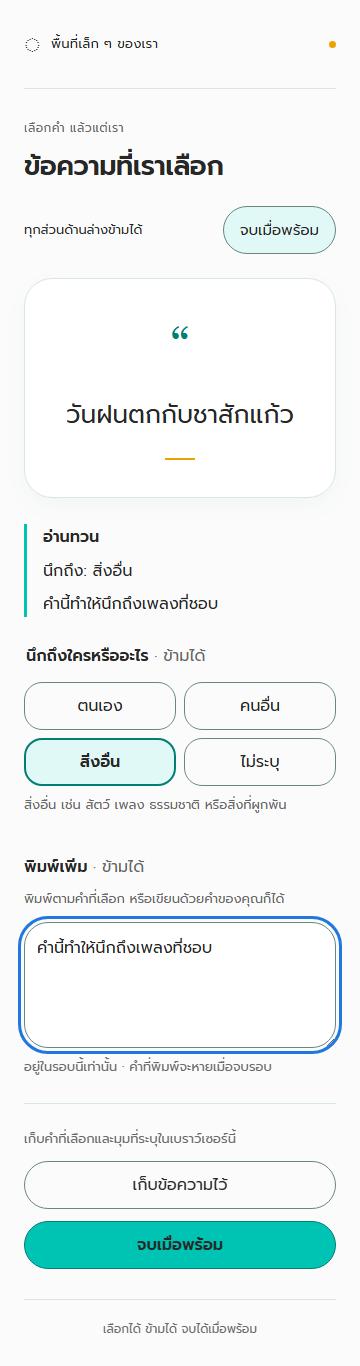
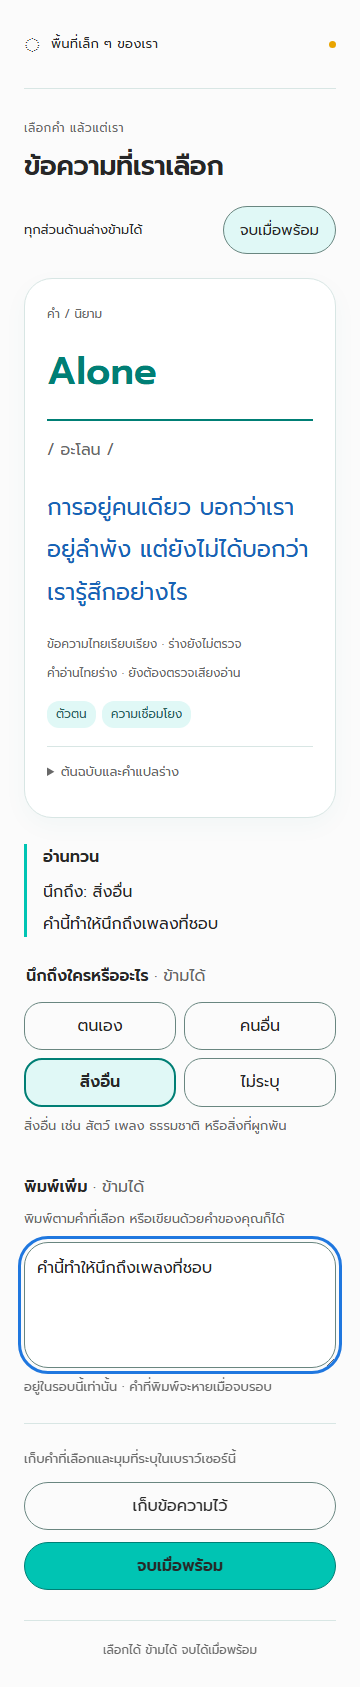
Isolate native details from swipe surface and document touch limits

Changed region(s): [[0.0306, 0.0, 0.9472, 0.9839], [0.6722, 0.4919, 0.7639, 0.5227], [0.3972, 0.0, 0.4278, 0.0307]]

diff --git a/src/App.tsx b/src/App.tsx
@@ -5,7 +5,6 @@ import {saveQuote} from './storage';
 import type {SavedQuote} from './storage';
 import QuoteCard from './QuoteCard';
 import HistoryView from './HistoryView';
-import SwipeCard from './SwipeCard';
 type Screen='welcome'|'discover'|'reflect'|'noSelection'|'done'|'history';
 type Round={id:string;deck:string[];visited:string[];cursor:number;currentQuoteId:string;selectedQuoteId:string|null;focus:Focus;draft:string;hugShown:boolean};
 const titles:Record<Screen,string>={welcome:'เลือกคำ แล้วแต่เรา',discover:'พบข้อความ',reflect:'ข้อความที่เราเลือก',noSelection:'วันนี้ยังไม่เลือก',done:'จบรอบนี้แล้ว',history:'ข้อความที่เก็บไว้'};
@@ -16,13 +15,13 @@ export default function App(){
  function end(){setDoneSaved(!!saved);setRound(null);setSaved(null);setMessage('');setScreen('done');}
  function patch(changes:Partial<Round>){setRound(r=>r?{...r,...changes}:r);}
  function next(){setRound(r=>{if(!r)return r;if(r.cursor<r.visited.length-1){const cursor=r.cursor+1;return {...r,cursor,currentQuoteId:r.visited[cursor]};}const [first,...deck]=r.deck.length?r.deck:shuffled(r.currentQuoteId);return {...r,deck,visited:[...r.visited,first],cursor:r.cursor+1,currentQuoteId:first};});}
- function previous(){setRound(r=>r&&r.cursor>0?{...r,cursor:r.cursor-1,currentQuoteId:r.visited[r.cursor-1]}:r);} 
+ function previous(){setRound(r=>r&&r.cursor>0?{...r,cursor:r.cursor-1,currentQuoteId:r.visited[r.cursor-1]}:r);}
  function save(){if(!round)return;const quote=quotes.find(q=>q.id===round.selectedQuoteId)!;try{const entry=saveQuote({id:round.id,quoteId:quote.id,quoteText:snapshotText(quote),focus:round.focus});setSaved(entry);setMessage('เก็บข้อความไว้แล้ว');}catch(e){setMessage((e as Error).message);}}
  function history(){setOrigin(screen==='done'?'done':'welcome');setScreen('history');}
  const quote=round?quotes.find(q=>q.id===(round.selectedQuoteId??round.currentQuoteId)):null;
  return <main><header className="brand"><span className="brand-symbol" aria-hidden="true">◌</span><span>พื้นที่เล็ก ๆ ของเรา</span><span className="brand-dot" aria-hidden="true"/></header><div className="page"><p className="eyebrow">{screen==='welcome'?'ค่อย ๆ อยู่กับคำหนึ่งคำ':screen==='done'?'พักตรงนี้ได้':'เลือกคำ แล้วแต่เรา'}</p><h1 ref={heading} tabIndex={-1}>{titles[screen]}</h1>
  {screen==='welcome'&&<><div className="welcome-art" aria-hidden="true"><span>คำ</span></div><p className="intro">อ่านข้อความสั้น ๆ แล้วเลือกได้ว่าจะทำอะไรต่อ</p><div className="actions"><button className="primary" onClick={start}>เริ่ม</button><button onClick={history}>ดูข้อความที่เก็บไว้</button></div></>}
- {screen==='discover'&&quote&&<><p className="subtle">อ่านข้อความนี้ แล้วเลือกทางของคุณ</p><p className="hint" id="swipe-help">ปัดซ้ายดูคำถัดไป · ปัดขวาดูคำก่อนหน้า<br/>การปัดเป็นการเลื่อนดู ยังไม่เลือกหรือเก็บ</p><SwipeCard onNext={next} onPrevious={previous}><div aria-live="polite" aria-atomic="true"><QuoteCard key={quote.id} quote={quote}/></div></SwipeCard><div className="actions"><button className="primary" onClick={()=>{patch({selectedQuoteId:quote.id});setScreen('reflect');}}>เลือกข้อความนี้</button><button onClick={next}>เปลี่ยนข้อความ</button><button onClick={previous} disabled={!round||round.cursor===0}>ข้อความก่อนหน้า</button><button className="text-button" onClick={()=>setScreen('noSelection')}>วันนี้ยังไม่เลือก</button><button className="finish" onClick={end}>จบได้เลย</button></div></>}
+ {screen==='discover'&&quote&&<><p className="subtle">อ่านข้อความนี้ แล้วเลือกทางของคุณ</p><p className="hint" id="swipe-help">ปัดซ้ายดูคำถัดไป · ปัดขวาดูคำก่อนหน้า<br/>การปัดเป็นการเลื่อนดู ยังไม่เลือกหรือเก็บ</p><div aria-live="polite" aria-atomic="true"><QuoteCard key={quote.id} quote={quote} browse={{onNext:next,onPrevious:previous}}/></div><div className="actions"><button className="primary" onClick={()=>{patch({selectedQuoteId:quote.id});setScreen('reflect');}}>เลือกข้อความนี้</button><button onClick={next}>เปลี่ยนข้อความ</button><button onClick={previous} disabled={!round||round.cursor===0}>ข้อความก่อนหน้า</button><button className="text-button" onClick={()=>setScreen('noSelection')}>วันนี้ยังไม่เลือก</button><button className="finish" onClick={end}>จบได้เลย</button></div></>}
  {screen==='reflect'&&round&&quote&&<><div className="finish-top"><span>ทุกส่วนด้านล่างข้ามได้</span><button className="finish" onClick={end}>จบเมื่อพร้อม</button></div><QuoteCard quote={quote}/><section className="review" aria-label="อ่านทวน"><h2>อ่านทวน</h2>{round.focus&&<p>นึกถึง: {focusLabel(round.focus)}</p>}{round.draft.trim()&&<p className="draft-preview">{round.draft}</p>}{!round.focus&&!round.draft.trim()&&<p className="subtle">มีเพียงคำที่คุณเลือก</p>}</section><fieldset><legend>นึกถึงใครหรืออะไร <span>· ข้ามได้</span></legend><div className="choices">{([['self','ตนเอง'],['other','คนอื่น'],['things','สิ่งอื่น'],[null,'ไม่ระบุ']] as [Focus,string][]).map(([value,label])=><label key={label}><input type="radio" name="focus" value={value??''} checked={round.focus===value} onChange={()=>patch({focus:value})}/><span>{label}</span></label>)}</div><p className="hint">สิ่งอื่น เช่น สัตว์ เพลง ธรรมชาติ หรือสิ่งที่ผูกพัน</p></fieldset><section className="writing"><label htmlFor="draft">พิมพ์เพิ่ม <span>· ข้ามได้</span></label><p className="hint" id="draft-prompt">พิมพ์ตามคำที่เลือก หรือเขียนด้วยคำของคุณก็ได้</p><textarea id="draft" maxLength={500} value={round.draft} onChange={e=>patch({draft:e.target.value})} aria-describedby="draft-prompt draft-help"/><p className="hint" id="draft-help">อยู่ในรอบนี้เท่านั้น · คำที่พิมพ์จะหายเมื่อจบรอบ</p></section><section className="save-section"><p className="hint">เก็บคำที่เลือกและมุมที่ระบุในเบราว์เซอร์นี้</p><button onClick={save}>{saved&&saved.focus!==round.focus?'อัปเดตบันทึก':'เก็บข้อความไว้'}</button><p role="status">{message}</p></section><button className="primary full" onClick={end}>จบเมื่อพร้อม</button></>}
  {screen==='noSelection'&&round&&<><p className="intro">วันนี้จบตรงนี้ได้เลย</p><button className="primary full" onClick={end}>จบได้เลย</button><div className="hug-area">{round.hugShown?<div role="status"><svg aria-hidden="true" viewBox="0 0 180 150" width="150" height="125"><path d="M35 108Q0 64 42 69Q37 13 66 27Q92 6 119 29Q150 19 143 68Q184 62 150 111Q92 154 35 108" fill="#E0F8F6" stroke="#007F75" strokeWidth="2"/><circle cx="72" cy="65" r="3" fill="#272727"/><circle cx="106" cy="65" r="3" fill="#272727"/><path d="M80 80Q89 88 98 80" fill="none" stroke="#272727" strokeWidth="2"/></svg><p>ไว้ค่อยกลับมาเมื่อพร้อม</p></div>:<button onClick={()=>patch({hugShown:true})}>รับกอด</button>}</div></>}
  {screen==='done'&&<><div className="done-art" aria-hidden="true">✓</div>{doneSaved&&<p className="saved-note">เก็บข้อความไว้แล้ว</p>}<div className="actions"><button className="primary" onClick={start}>เริ่มรอบใหม่</button><button onClick={history}>ดูข้อความที่เก็บไว้</button></div></>}

diff --git a/tests/swipe.spec.ts b/tests/swipe.spec.ts
@@ -1,16 +1,17 @@
-import {test,expect,type Page} from '@playwright/test';
-test.use({hasTouch:true,viewport:{width:360,height:800}});
+import {test,expect,type Page,type CDPSession} from '@playwright/test';
+test.use({hasTouch:true,isMobile:true,viewport:{width:360,height:800}});
 const button=(p:Page,name:string)=>p.getByRole('button',{name,exact:true});
+const sessions=new WeakMap<Page,CDPSession>();
 const id=(p:Page)=>p.getByTestId('quote').getAttribute('data-quote-id');
 async function swipe(p:Page,dx:number,dy=0,selector='.quote-headword'){
  const target=p.locator(selector);await target.scrollIntoViewIfNeeded();const b=(await target.boundingBox())!;
  const x=dx<0?b.x+b.width-15:b.x+15,y=b.y+Math.min(b.height/2,45);
- const c=await p.context().newCDPSession(p);
+ let c=sessions.get(p);if(!c){c=await p.context().newCDPSession(p);sessions.set(p,c);}
  await c.send('Input.dispatchTouchEvent',{type:'touchStart',touchPoints:[{x,y}]});
  for(let i=1;i<=6;i++){await c.send('Input.dispatchTouchEvent',{type:'touchMove',touchPoints:[{x:x+dx*i/6,y:y+dy*i/6}]});await p.waitForTimeout(20);}
- await c.send('Input.dispatchTouchEvent',{type:'touchEnd',touchPoints:[]});await p.waitForTimeout(100);await c.detach();
+ await c.send('Input.dispatchTouchEvent',{type:'touchEnd',touchPoints:[]});await p.waitForTimeout(150);
 }
-test.beforeEach(async({page})=>{await page.goto('/');await button(page,'เริ่ม').click();});
+test.beforeEach(async({page})=>{await page.goto(process.env.TEST_BASE_URL||'/',{waitUntil:'networkidle'});await page.evaluate(()=>document.fonts.ready);await button(page,'เริ่ม').click();});
 test('swipe: left next, right previous, first boundary, replay and no save',async({page})=>{
  const first=await id(page);await expect(button(page,'ข้อความก่อนหน้า')).toBeDisabled();await swipe(page,140);expect(await id(page)).toBe(first);
  await swipe(page,-140);const second=await id(page);expect(second).not.toBe(first);await expect(button(page,'ข้อความก่อนหน้า')).toBeEnabled();
@@ -22,9 +23,13 @@ test('swipe: left next, right previous, first boundary, replay and no save',asyn
  await button(page,'เลือกข้อความนี้').click();expect(await id(page)).toBe(second);await button(page,'จบเมื่อพร้อม').first().click();await expect(page.getByRole('heading',{name:'จบรอบนี้แล้ว'})).toBeVisible();
 });
 test('swipe: vertical scroll, short drag and details touch never browse',async({page})=>{
- const first=await id(page);await swipe(page,-25);expect(await id(page)).toBe(first);
+ for(let i=0;i<53&&await id(page)!=='catalog-v1:ooca-042';i++)await button(page,'เปลี่ยนข้อความ').click();const first=await id(page);await swipe(page,-25);expect(await id(page)).toBe(first);
  await swipe(page,0,-150);expect(await id(page)).toBe(first);expect(await page.evaluate(()=>scrollY)).toBeGreaterThan(0);
  await swipe(page,-140,0,'.source-details summary');expect(await id(page)).toBe(first);
+
+});
+test('touch: native details and select button do not browse',async({page})=>{
+ const first=await id(page);
  const wasOpen=await page.locator('.source-details').evaluate(el=>(el as HTMLDetailsElement).open);await page.locator('.source-details summary').tap();await expect.poll(()=>page.locator('.source-details').evaluate(el=>(el as HTMLDetailsElement).open)).toBe(!wasOpen);expect(await id(page)).toBe(first);
  await button(page,'เลือกข้อความนี้').tap();await expect(page.getByRole('heading',{name:'ข้อความที่เราเลือก'})).toBeVisible();expect(await id(page)).toBe(first);
 });

diff --git a/src/QuoteCard.tsx b/src/QuoteCard.tsx
@@ -1,6 +1,7 @@
 import type {Quote} from './quotes';
-export default function QuoteCard({quote:q}:{quote:Quote}) {
- return <article className={`quote-card ${q.type==='sentence'?'sentence-card':''}`} data-testid="quote" data-quote-id={q.id}>
+import SwipeCard from './SwipeCard';
+export default function QuoteCard({quote:q,browse}:{quote:Quote;browse?:{onNext:()=>void;onPrevious:()=>void}}) {
+ const content=<>
   <span className="quote-type">{q.type==='sentence'?'ประโยค / ข้อความ':'คำ / นิยาม'}</span>
   <h2 className="quote-headword" lang={q.language}>{q.headword}</h2>
   <span className="card-line" aria-hidden="true"/>
@@ -9,6 +10,9 @@ export default function QuoteCard({quote:q}:{quote:Quote}) {
   <p className="quote-status">ข้อความไทยเรียบเรียง · ร่างยังไม่ตรวจ</p>
   {q.reading&&<p className="reading-status">{q.readingKind} · ยังต้องตรวจเสียงอ่าน</p>}
   <ul className="quote-tags" aria-label="แท็กเนื้อหาร่าง">{q.tags.map(tag=><li key={tag}>{tag}</li>)}</ul>
+ </>;
+ return <article className={`quote-card ${q.type==='sentence'?'sentence-card':''}`} data-testid="quote" data-quote-id={q.id}>
+  {browse?<SwipeCard {...browse}>{content}</SwipeCard>:content}
   <details className="source-details"><summary>ต้นฉบับและคำแปลร่าง</summary><p className="source-text">{q.original}</p><p>คำแปลไทย (ร่าง): {q.translation}</p></details>
  </article>;
 }

diff --git a/src/style.css b/src/style.css
@@ -20,3 +20,5 @@
 .history-day details p,.history-day summary{white-space:pre-wrap}
 .quote-card .quote-headword{line-height:1.65}
 .swipe-surface{touch-action:pan-y pinch-zoom}button:disabled{color:#686868;background:#F5F5F5;cursor:default}button:disabled:hover{background:transparent}
+
+.quote-type{display:block}.swipe-surface .card-line{display:block}
